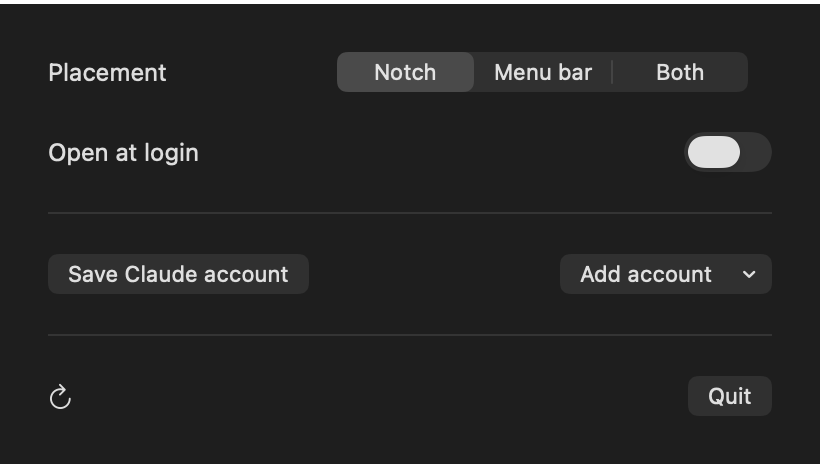
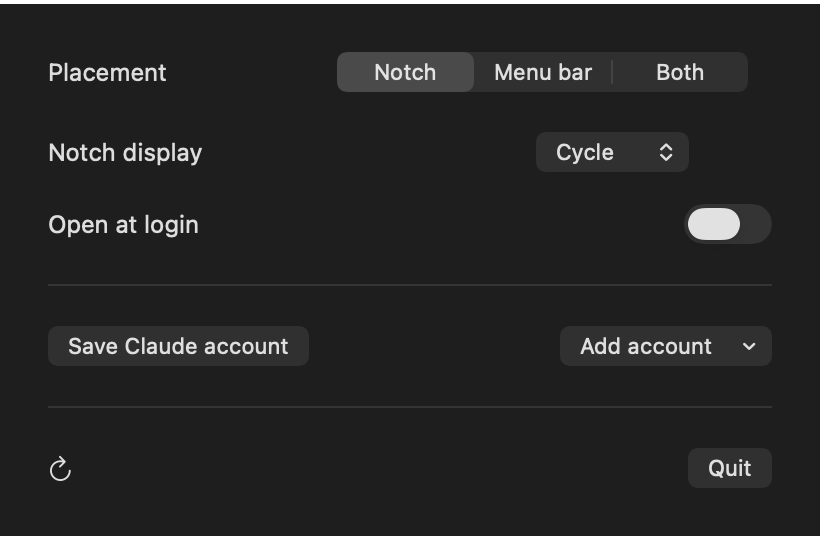
Match notch motion timing and support pinned compact providers

diff --git a/Sources/SubTrackerApp/NotchPanel.swift b/Sources/SubTrackerApp/NotchPanel.swift
@@ -50,10 +50,8 @@ private final class NotchHostingView: NSHostingView<NotchView> {
   @Published private(set) var headerHeight: CGFloat = 0
   @Published private(set) var expandedHeight: CGFloat = 0
   var compactAccounts: [Account] {
-    store.visibleAccounts.filter {
-      guard $0.showsInCompactView, $0.issue == nil, let usage = $0.usage else { return false }
-      return !usage.isStale() && !usage.windows.isEmpty
-    }
+    let provider = UserDefaults.standard.string(forKey: "compactProvider") ?? ""
+    return store.compactAccounts.filter { provider.isEmpty || $0.provider.rawValue == provider }
   }
   var wingWidth: CGFloat { compactAccounts.isEmpty ? 0 : 48 }
   var compactWidth: CGFloat { cameraWidth + wingWidth * 2 }
@@ -268,11 +266,13 @@ private final class NotchHostingView: NSHostingView<NotchView> {
     let nextExpandedFrame = NSRect(
       x: center - width / 2, y: screen.frame.maxY - height, width: width, height: height)
     // Only the hit area extends beyond the hardware. No extra notch is drawn.
+    let previousCollapsedFrame = collapsedFrame
     collapsedFrame = NSRect(
       x: center - (closedWidth + 12) / 2, y: screen.frame.maxY - newHeaderHeight - 4,
       width: closedWidth + 12, height: newHeaderHeight + 4)
     let changed =
       expanded != willExpand || expandedFrame != nextExpandedFrame
+      || collapsedFrame != previousCollapsedFrame
       || cameraWidth != newCameraWidth || headerHeight != newHeaderHeight
     expandedFrame = nextExpandedFrame
     guard changed else { return }
@@ -294,7 +294,7 @@ private final class NotchHostingView: NSHostingView<NotchView> {
     }
     let motion: Animation? =
       shouldAnimate
-      ? .spring(response: willExpand ? 0.36 : 0.4, dampingFraction: willExpand ? 0.86 : 1)
+      ? .spring(response: willExpand ? 0.42 : 0.45, dampingFraction: willExpand ? 0.8 : 1)
       : nil
     withAnimation(motion, completionCriteria: .removed) {
       expandedHeight = height
@@ -315,6 +315,7 @@ private struct NotchView: View {
   @ObservedObject var store: TrackerStore
   @ObservedObject var controller: NotchController
   let onSettings: () -> Void
+  @AppStorage("compactProvider") private var compactProvider = ""
   @Environment(\.accessibilityReduceMotion) private var reduceMotion
 
   var body: some View {
@@ -339,7 +340,7 @@ private struct NotchView: View {
         .frame(width: controller.expandedWidth, height: controller.expandedHeight, alignment: .top)
         .scaleEffect(controller.expanded || reduceMotion ? 1 : 0.96, anchor: .top)
         .opacity(controller.expanded ? 1 : 0)
-        .animation(reduceMotion ? nil : .easeOut(duration: 0.2), value: controller.expanded)
+        .animation(reduceMotion ? nil : .smooth(duration: 0.35), value: controller.expanded)
         .allowsHitTesting(controller.expanded)
         .accessibilityHidden(!controller.expanded)
       }
@@ -349,9 +350,8 @@ private struct NotchView: View {
         alignment: .top
       )
       .clipShape(
-        UnevenRoundedRectangle(
-          topLeadingRadius: 0, bottomLeadingRadius: controller.expanded ? 24 : 10,
-          bottomTrailingRadius: controller.expanded ? 24 : 10, topTrailingRadius: 0)
+        NotchOutline(
+          shoulder: controller.expanded ? 10 : 6, corner: controller.expanded ? 24 : 12)
       )
       .opacity(controller.surfaceVisible || !controller.compactAccounts.isEmpty ? 1 : 0)
       .frame(maxWidth: .infinity, maxHeight: .infinity, alignment: .top)
@@ -359,7 +359,7 @@ private struct NotchView: View {
         if !controller.expanded {
           Button(action: controller.toggle) {
             Color.clear.frame(
-              width: controller.cameraWidth + 12, height: controller.headerHeight + 4
+              width: controller.compactWidth + 12, height: controller.headerHeight + 4
             )
             .contentShape(Rectangle())
           }.buttonStyle(.plain).accessibilityLabel("Open usage")
@@ -370,10 +370,14 @@ private struct NotchView: View {
   }
 
   private var compactStrip: some View {
-    TimelineView(.periodic(from: .now, by: 4)) { timeline in
+    TimelineView(
+      .animation(minimumInterval: 4, paused: !compactProvider.isEmpty || controller.expanded)
+    ) { timeline in
       let accounts = controller.compactAccounts
       if !accounts.isEmpty {
-        let index = Int(timeline.date.timeIntervalSinceReferenceDate / 4) % accounts.count
+        let index =
+          compactProvider.isEmpty
+          ? Int(timeline.date.timeIntervalSinceReferenceDate / 4) % accounts.count : 0
         let account = accounts[index]
         HStack(spacing: 0) {
           ProviderIcon(provider: account.provider, size: 18)

diff --git a/Sources/SubTrackerApp/Views.swift b/Sources/SubTrackerApp/Views.swift
@@ -369,6 +369,7 @@ struct SettingsView: View {
   @ObservedObject var store: TrackerStore
   @AppStorage("showRemaining") var showRemaining = true
   @AppStorage("placement") var placement = Placement.notch.rawValue
+  @AppStorage("compactProvider") var compactProvider = ""
   @State private var launchAtLogin = SMAppService.mainApp.status == .enabled
   @State private var name = ""
   @State private var key = ""
@@ -387,6 +388,28 @@ struct SettingsView: View {
           .onChange(of: placement) { _, _ in store.changed?() }
       }
       VStack(spacing: 16) {
+        if placement != Placement.menuBar.rawValue {
+          HStack {
+            Text("Notch display")
+            Spacer()
+            Picker("Notch display", selection: $compactProvider) {
+              Text("Cycle").tag("")
+              ForEach(
+                Provider.allCases.filter { provider in
+                  store.compactAccounts.contains { $0.provider == provider }
+                }
+              ) { provider in
+                Text(provider.title).tag(provider.rawValue)
+              }
+              if let pinned = Provider(rawValue: compactProvider),
+                !store.compactAccounts.contains(where: { $0.provider == pinned })
+              {
+                Text("\(pinned.title) (unavailable)").tag(pinned.rawValue).disabled(true)
+              }
+            }.labelsHidden().frame(width: 160)
+              .onChange(of: compactProvider) { _, _ in store.changed?() }
+          }
+        }
         if placement != Placement.notch.rawValue {
           HStack {
             Text("Menu bar percentage")

diff --git a/Tests/SubTrackerCoreTests/NotchChecks.swift b/Tests/SubTrackerCoreTests/NotchChecks.swift
@@ -19,12 +19,12 @@ extension SubTrackerCoreTests {
     notch.advance(at: 1)
     expect(!notch.isExpanded)
     notch.pointerChanged(inside: true, at: 2)
-    notch.advance(at: 2.3)
+    notch.advance(at: 2.29)
     expect(!notch.isExpanded)
     notch.advance(at: 2.36)
     expectEqual(notch.presentation, .hover)
     notch.pointerChanged(inside: false, at: 3)
-    notch.advance(at: 3.2)
+    notch.advance(at: 3.05)
     expect(notch.isExpanded)
     notch.advance(at: 3.4)
     expect(!notch.isExpanded)
@@ -36,7 +36,7 @@ extension SubTrackerCoreTests {
     notch.pointerChanged(inside: true, at: 0)
     notch.advance(at: 1)
     notch.pointerChanged(inside: false, at: 2)
-    notch.pointerChanged(inside: true, at: 2.2)
+    notch.pointerChanged(inside: true, at: 2.05)
     notch.advance(at: 3)
     expectEqual(notch.presentation, .hover)
     expectNil(notch.deadline)

diff --git a/Sources/SubTrackerApp/TrackerStore.swift b/Sources/SubTrackerApp/TrackerStore.swift
@@ -32,6 +32,12 @@ import SubTrackerCore
     }
   }
   var visibleAccounts: [Account] { demo ? accounts : accounts.filter(\.canDisplayUsage) }
+  var compactAccounts: [Account] {
+    visibleAccounts.filter {
+      guard $0.showsInCompactView, $0.issue == nil, let usage = $0.usage else { return false }
+      return !usage.isStale() && !usage.windows.isEmpty
+    }
+  }
   var menuTitle: String {
     guard UserDefaults.standard.object(forKey: "showRemaining") as? Bool ?? true else { return "" }
     let remaining = visibleAccounts.filter(\.showsInCompactView).compactMap { a -> Double? in

diff --git a/Sources/SubTrackerCore/NotchInteraction.swift b/Sources/SubTrackerCore/NotchInteraction.swift
@@ -15,10 +15,10 @@ public struct NotchInteraction {
     guard inside != pointerInside else { return }
     pointerInside = inside
     if inside {
-      deadline = presentation == .closed && !suppressedUntilExit ? time + 0.35 : nil
+      deadline = presentation == .closed && !suppressedUntilExit ? time + 0.3 : nil
     } else {
       suppressedUntilExit = false
-      deadline = presentation == .hover ? time + 0.32 : nil
+      deadline = presentation == .hover ? time + 0.1 : nil
     }
   }
 

diff --git a/README.md b/README.md
@@ -41,7 +41,7 @@ Installs `~/Applications/Sub Tracker.app` without administrator access. Accounts
 
 Hover over the real camera notch to expand usage. Move away to close it. Click the notch to keep it open; click again, click outside, or press Escape to close. Use the sliders button for Settings. The menu bar icon opens the same accounts.
 
-The notch interaction takes inspiration from [Boring Notch](https://github.com/TheBoredTeam/boring.notch). The compact view cycles through active, verified subscriptions every four seconds, with a provider icon and its lowest remaining allowance. It uses curved shoulders around the real cutout. Stale or unknown percentages stay hidden. Hover for 350 ms to expand; passing across it briefly does not open it. Reduce Motion is respected.
+The notch interaction takes inspiration from [Boring Notch](https://github.com/TheBoredTeam/boring.notch). The compact view cycles through active, verified subscriptions every four seconds, with a provider icon and its lowest remaining allowance. It uses curved shoulders around the real cutout. Stale or unknown percentages stay hidden. Choose Cycle or a provider under Settings → Notch display. A pinned provider stays selected across launches and hides if its reading is unavailable. Hover for 300 ms to expand; passing across it briefly does not open it. Reduce Motion is respected.
 
 <p align="center">
   <img src="docs/images/notch.jpg" alt="Expanded notch panel with demo accounts" width="410">
@@ -83,7 +83,7 @@ See [account discovery and switching](docs/ACCOUNTS.md).
 
 ## Status
 
-Version **0.4.1** is an early preview. Codex, Claude, and Cursor have been checked with live accounts. The other integrations have fixture checks and still need live-account validation. Devin/Windsurf cache-only entries are hidden because they cannot verify an account. Kiro currently requires its CLI sign-in. Some providers do not expose a remaining allowance for every plan. Provider endpoints can change.
+Version **0.4.2** is an early preview. Codex, Claude, and Cursor have been checked with live accounts. The other integrations have fixture checks and still need live-account validation. Devin/Windsurf cache-only entries are hidden because they cannot verify an account. Kiro currently requires its CLI sign-in. Some providers do not expose a remaining allowance for every plan. Provider endpoints can change.
 
 Downloads and local builds are ad-hoc signed. Developer ID signing and Apple notarization are not configured yet.
 

diff --git a/CHANGELOG.md b/CHANGELOG.md
@@ -1,5 +1,12 @@
 # Changelog
 
+## 0.4.2 (2026-10-25, Preview)
+
+- Add Settings → Notch display with Cycle or a pinned provider. The choice persists across launches.
+- Match Boring Notch’s 300 ms hover delay, 100 ms exit delay, and 0.42/0.45-second opening/closing springs.
+- Smooth content transitions over 350 ms and pause rotation while the panel is expanded or a provider is pinned.
+- Apply the curved outline to the rendered surface and resize the compact hit area when availability changes.
+
 ## 0.4.1 (2026-10-25, Preview)
 
 - Add small side compartments with an active provider icon and remaining percentage, cycling every four seconds.

diff --git a/docs/releases/0.4.2.md b/docs/releases/0.4.2.md
@@ -1,0 +1,5 @@
+Choose Cycle or a provider in Settings → Notch display. Pinned providers remain selected across launches. The picker lists current, verified providers; a pinned reading hides if it becomes unavailable.
+
+The notch now matches Boring Notch’s default 300 ms hover delay, 100 ms exit delay, 0.42-second opening spring, and 0.45-second closing spring. Content transitions last 350 ms. Rotation pauses when the panel is open or a provider is pinned. Reduce Motion remains supported.
+
+50 checks pass. Universal DMG and ZIP for macOS 14+, Apple Silicon and Intel. Downloads are ad-hoc signed, not Apple-notarized.
